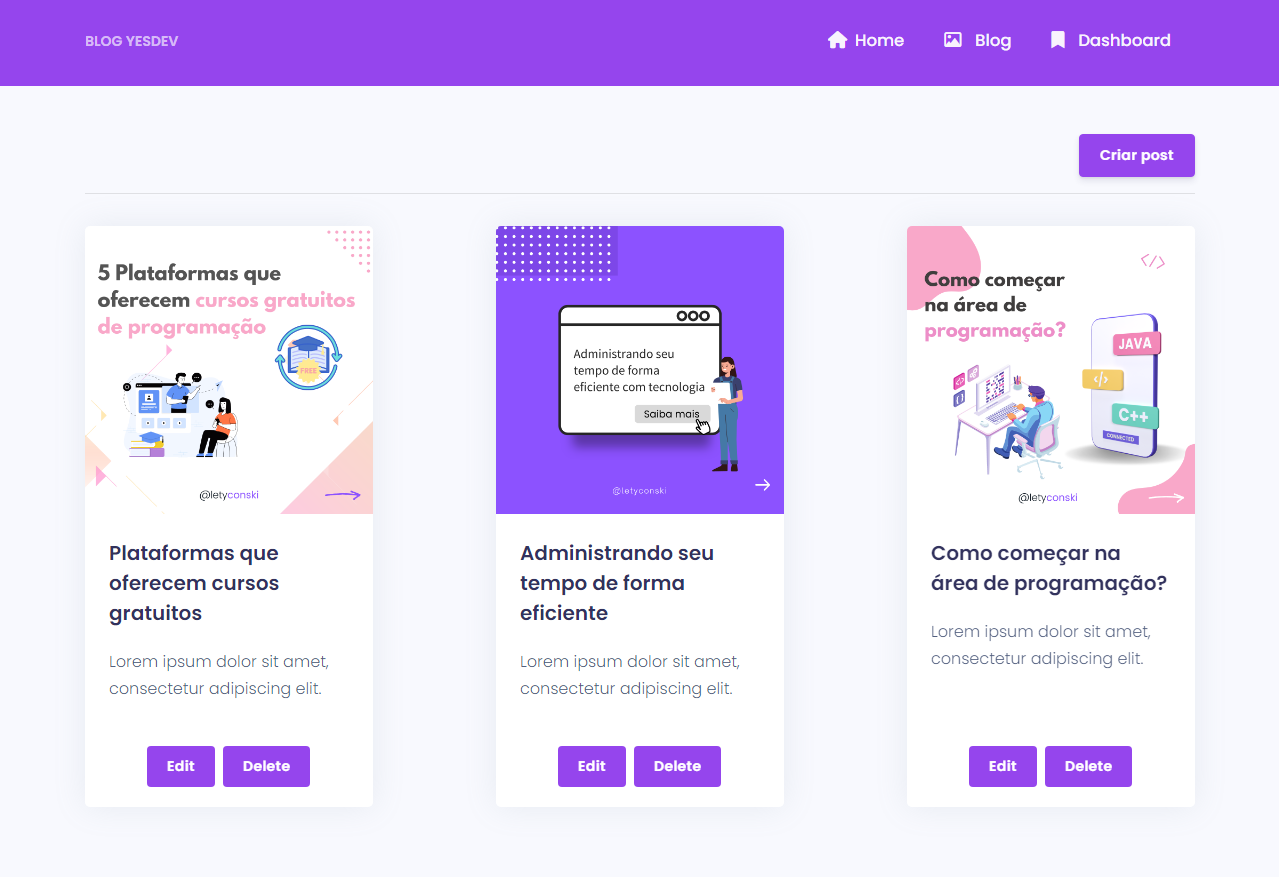
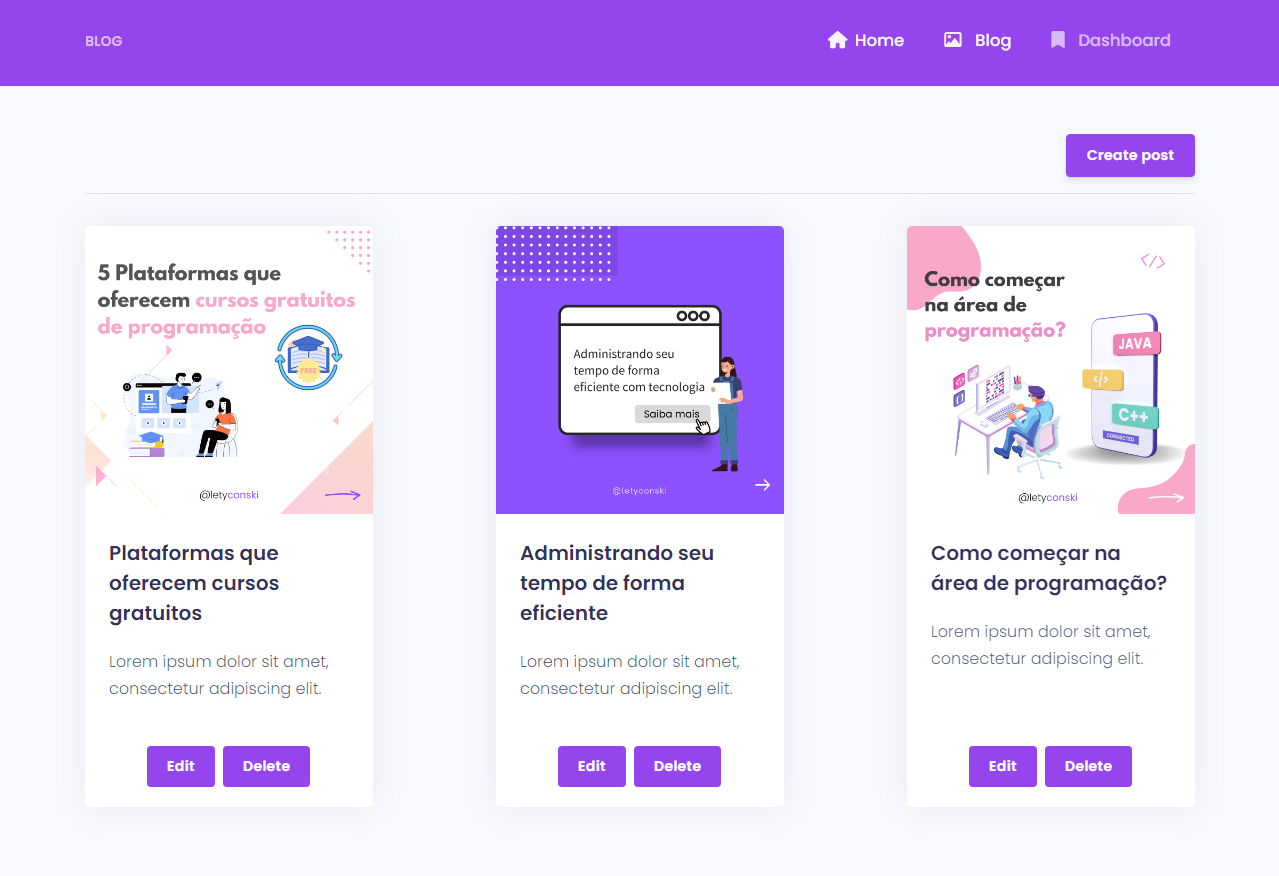
Update

diff --git a/pages/dashboard.vue b/pages/dashboard.vue
@@ -1,7 +1,7 @@
 <template>
   <div class="container mt-5">
     <!-- Botão -->
-    <Button _class="btn btn-sm-2 btn-success d-block mr-0 ml-auto mb-3" id="createModal">Criar post</Button>
+    <Button _class="btn btn-sm-2 btn-success d-block mr-0 ml-auto mb-3" id="createModal">Create post</Button>
     <hr class="mt-0" />
     <!-- Modal | Criar post -->
     <div class="modal fade" id="createModal" tabindex="-1" role="dialog" aria-labelledby="createModal"

diff --git a/nuxt.config.js b/nuxt.config.js
@@ -1,7 +1,7 @@
 export default {
   // Global page headers: https://go.nuxtjs.dev/config-head
   head: {
-    title: 'blogYesDev',
+    title: 'Blog',
     htmlAttrs: {
       lang: 'pt-br',
     },
